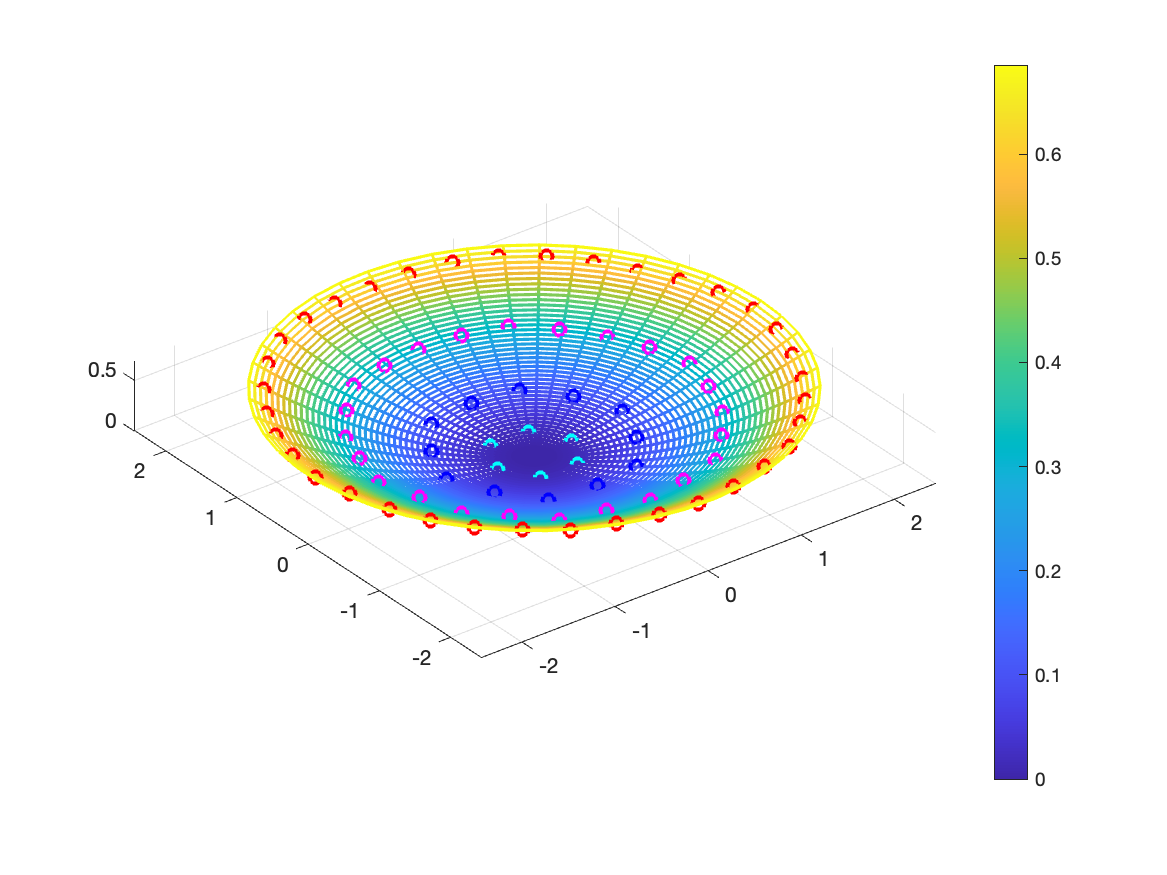
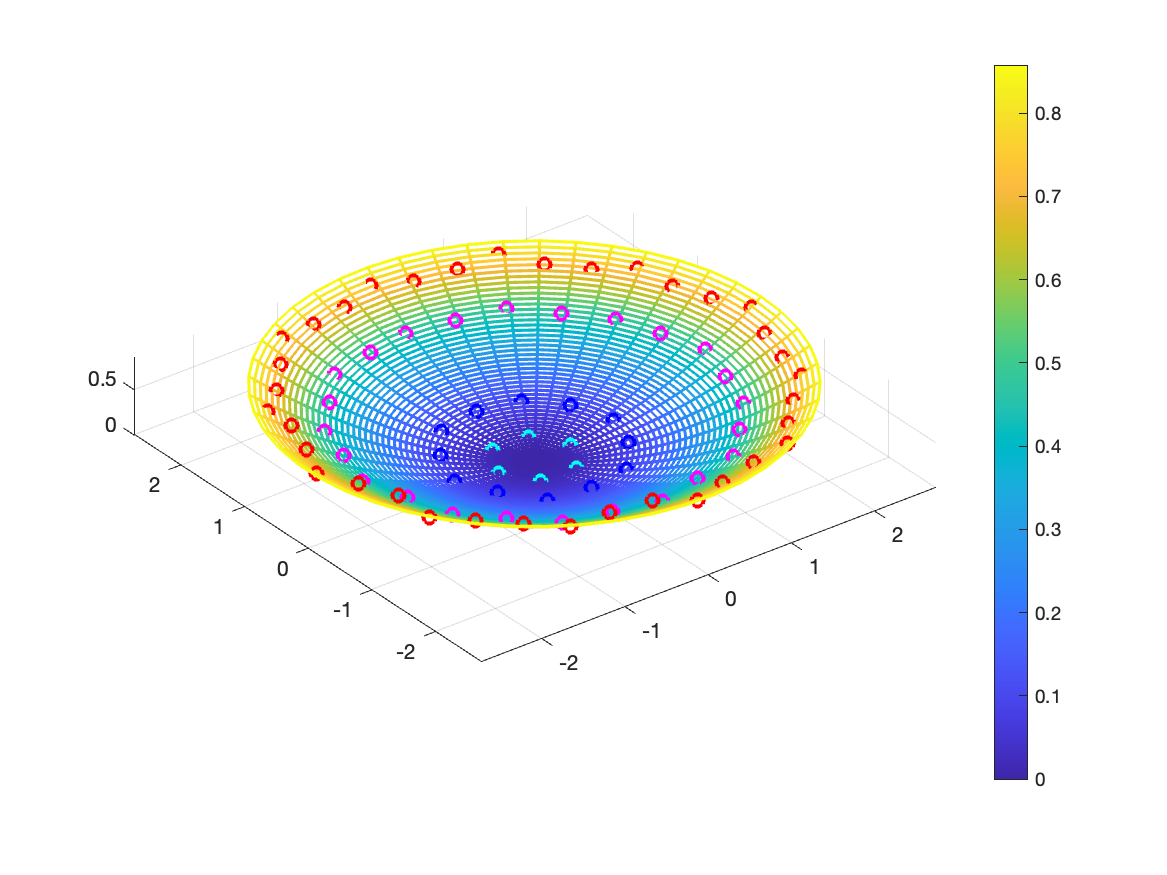
modified ignore

diff --git a/opt3D.m b/opt3D.m
@@ -7,24 +7,28 @@ clc;clear, close all
 X_0 = [0.9    0.9    0.9   0.9 0 0 0 0 0 0 0.9 0.9 0.9 0.9];
 %X_0= [0.5798    0.8503    0.7184    0.8082    0.3294    0.0758    0.6214 0.0810    0.2917    0.0652 ];
 A = [-eye(4),zeros(4,6), zeros(4);
-    eye(4),zeros(4,6);
-    zeros(6,4), -eye(6);
-    zeros(6,4), eye(6);];
+    eye(4),zeros(4,6), zeros(4);
+    zeros(6,4), -eye(6), zeros(6, 4);
+    zeros(6,4), eye(6), zeros(6, 4);
+    zeros(4),zeros(4,6), -eye(4);
+    zeros(4),zeros(4,6), eye(4)];
 b = [-0.5 .* ones(4, 1);
     1.2 .* ones(4, 1);
     1.*ones(6,1);
-    2.*ones(6,1);];
+    2.*ones(6,1);
+    -0.4 .* ones(4, 1);
+    0.6 .* ones(4, 1)];
 
 options = optimoptions('ga', ...
     'UseParallel', true, ...
     'MaxGenerations', 1000, ...
-    'PopulationSize', 300, ...
+    'PopulationSize', 3000, ...
     'FunctionTolerance', 1e-5, ...
     'ConstraintTolerance', 1e-5, ...
     'Display', 'iter');
 
-lb = -10 .* ones(1, 10);
-ub = -lb;
+lb = [0.4.*ones(1, 4), -3 .*ones(1, 6), 0.4 .*ones(1, 4)];
+ub = [2 .*ones(1, 4), 3 .*ones(1, 6), 0.6 .*ones(1, 4)];
 
 %调用 ga 函数进行优化
 [X, result] = ga(@obj_antenna, numel(X_0), A, b, [], [], lb, ub, [], options);
